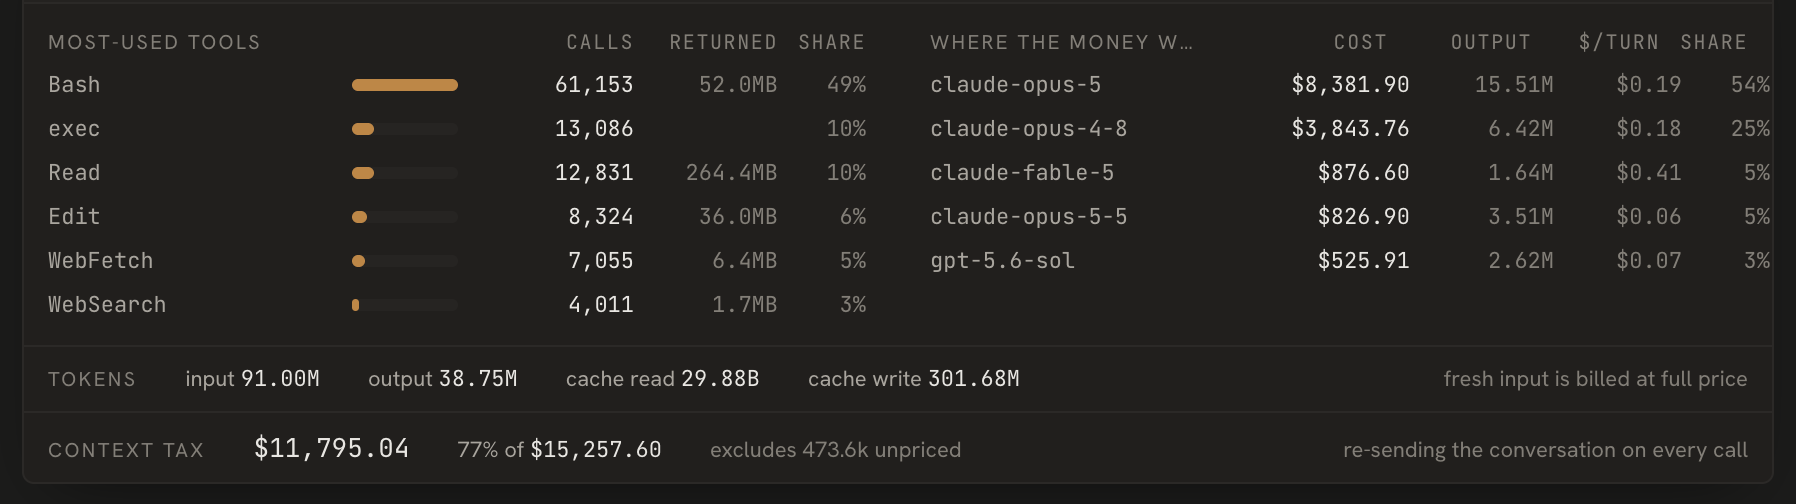
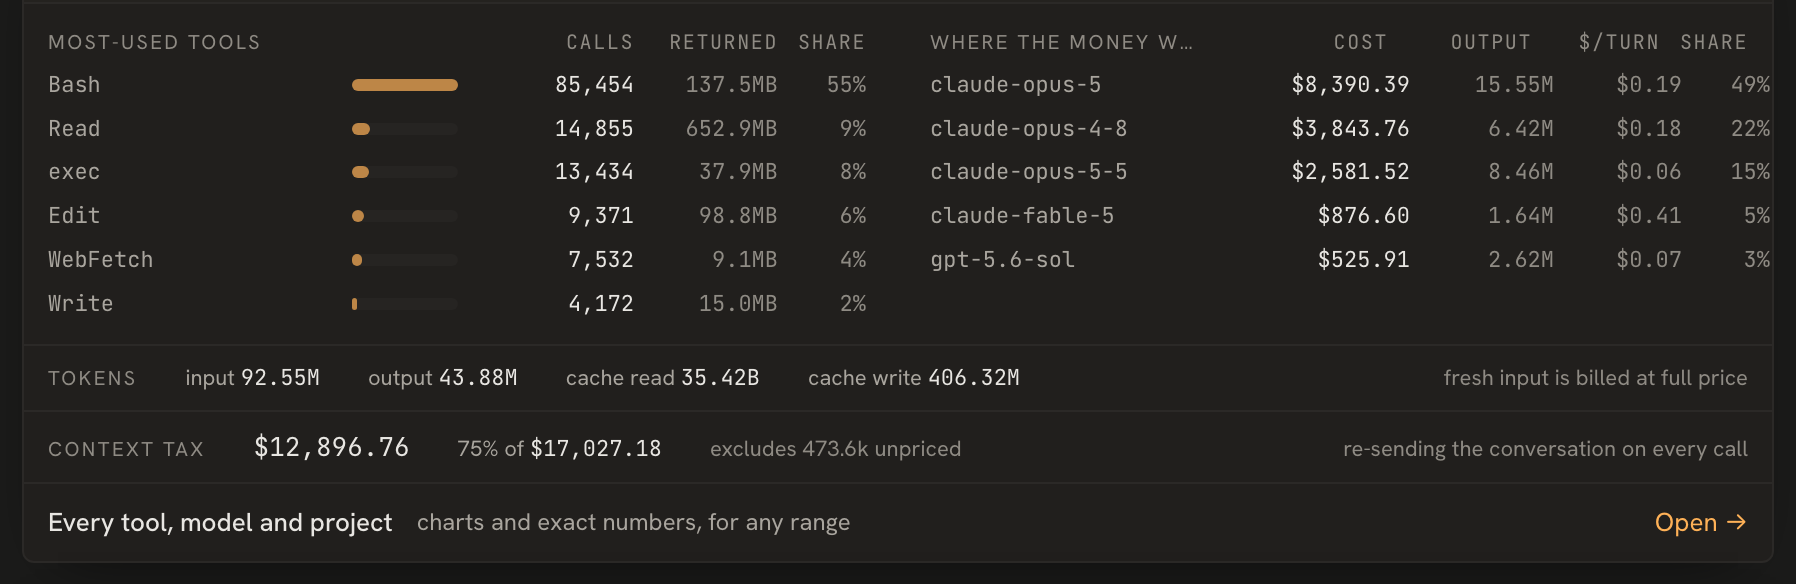
chore(shots): refresh for 0.111.0
Dashboard shots (shot-now, shot-cost, shot-history, shot-tasks) and the
docs' feature crops (feat-breakdown, feat-cap, feat-limits, feat-projects)
retaken by scripts/shots.py and scripts/feature-shots.py against a scrubbed
copy of a real database, on a 0.111.0 build. The README hero and
docs/app.md's shot-app come from the site's demo stand (caprock-web
scripts/demo/app.sh): the agent at work with its cockpit, and an agent
with a shell split below it. shot-app was still the 0.77.0 window.

Three things the capture got wrong, fixed in the scripts:

- shots.py chose the theme by clicking the header's theme button. Since
  0.108.0 that button opens the palette menu, so the light pass never
  turned light. The palette is now set in storage before each load.
- Cost's donut row runs past the 1400px frame, and the panel snap left
  its headings as a stray strip along the bottom. Cost now ends at the row.
- Tasks prints the repository the daemon works on, which defaulted to the
  directory it started in: the user's home path on a public screenshot.
  refresh-shots.sh now points the shot daemon at a stand-in repository
  with --repo.

diff --git a/scripts/shots.py b/scripts/shots.py
@@ -356,7 +356,10 @@ WIDTH, HEIGHT = 1600, 1400
 MIN_H, PAD = 300, 28          # never crop tighter than this; breathing room below
 # A screen whose crop ends at a named panel rather than at the viewport. Now
 # runs far past 1400px, and the fixed height cut At a glance's donuts in half.
-CROP_TO = {"now": "at a glance"}
+# Cost's donut row runs past the 1400px frame, so the panel snap
+# fell back to the Totals edge and left the row's headings as a stray strip
+# along the bottom; it ends at the row instead.
+CROP_TO = {"now": "at a glance", "cost": "model mix"}
 
 
 def rpc(ws, method, params=None, _id=[0]):
@@ -478,6 +481,16 @@ def main():
 
         for theme in ("dark", "light"):
             for route, name in SHOTS:
+                # The theme is chosen before the load, in storage, because the
+                # load below is a real one and the app reads its palette as it
+                # boots. Clicking the header's theme button used to cycle light
+                # and dark; since 0.108.0 it opens a seven-palette menu, so the
+                # click opened the menu and the light pass never turned light.
+                # Dark Warm and Book are what each side shows on a fresh
+                # install (DEFAULT_DARK and DEFAULT_LIGHT in ui/src/lib/themes.ts).
+                mode = "book" if theme == "light" else "dark-warm"
+                evaluate(ws, "try { localStorage.setItem('caprock-theme-mode', '%s');"
+                             " localStorage.setItem('caprock-theme', '%s') } catch (e) {}" % (mode, theme))
                 # Navigating to the same document with a different hash does
                 # not reload it, and the dismissal flags above are only read as
                 # the document boots. Go by way of about:blank so each capture
@@ -488,22 +501,6 @@ def main():
                 time.sleep(0.3)
                 rpc(ws, "Page.navigate", {"url": f"{BASE}/#/{route}"})
                 time.sleep(1.5)
-                # Toggle to the theme we want by clicking the control, which is
-                # what a person does. Writing to storage only takes effect on
-                # the next document load, and a hash navigation is not one.
-                for _ in range(3):
-                    cur = evaluate(ws, "document.documentElement.getAttribute('data-theme')")
-                    if cur == theme:
-                        break
-                    evaluate(ws, """
-                      (() => {
-                        const b = [...document.querySelectorAll('button')].find(
-                          (x) => (x.getAttribute('aria-label') || '').includes('theme'));
-                        if (b) b.click();
-                      })()
-                    """)
-                    time.sleep(0.8)
-
 
                 for _ in range(40):
                     time.sleep(0.4)

diff --git a/docs/app.md b/docs/app.md
@@ -6,7 +6,7 @@ already measures, in one window. It talks to the same local daemon as the
 browser dashboard and the phone, so a session started in one is live in the
 others. Installing it: [install-app.md](install-app.md).
 
-![The app: projects and their sessions on the left, a shell tab on the right, plan limits and today's spend along the bottom](shot-app.png)
+![The app: today's spend, the plan windows and the projects with their sessions on the left; on the right a Claude Code session with a shell split below it](shot-app.png)
 
 *Demo projects and sessions, made up for this picture.*
 
